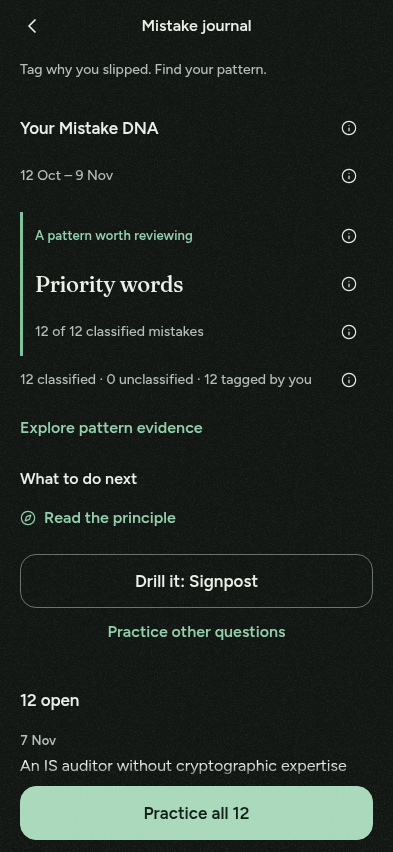
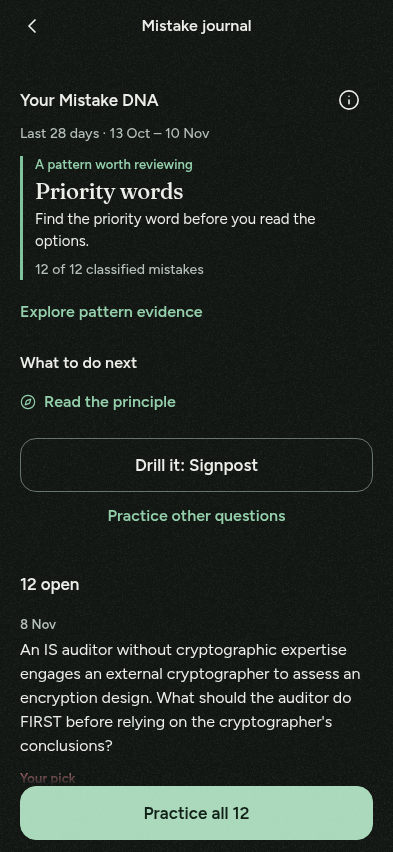
Consolidate Mistake DNA guidance into one help sheet

diff --git a/mobile/src/components/mistakeDNA.tsx b/mobile/src/components/mistakeDNA.tsx
@@ -1,32 +1,37 @@
 import { useState } from 'react';
 import { View } from 'react-native';
 import { DNA_COPY, type MistakeDNA } from '../engine/mistakeDNA';
+import { PATTERN_COPY, PATTERN_ORDER } from '../engine/slipCoach';
 import { shortDate } from '../lib/format';
 import { space } from '../theme/tokens';
 import { useTheme } from '../theme/useTheme';
-import { Info, ICON_STROKE } from './icons';
-import { Button, IconButton, ICON_SIZE, T } from './ui';
+import { FeatureInfo } from './featureInfo';
+import { Button, T } from './ui';
 
-const sourceLabel = (p: MistakeDNA['patterns'][number]) => p.observed ? 'Answer evidence' : p.pattern === 'priority' ? 'Your tags and question wording' : 'Your tags';
+const sourceLabel = (p: MistakeDNA['patterns'][number]) => p.observed ? 'Answer evidence' : p.pattern === 'priority' ? 'Tags + wording' : 'Your tags';
 
-/** Explanations stay beside their label, available to touch and screen readers. */
-function InfoLabel({ label, help, v = 'label', heading = false, color }: {
-  label: string;
-  help: string;
-  v?: 'headline' | 'title' | 'label' | 'meta' | 'caption';
-  heading?: boolean;
-  color?: string;
-}) {
-  const { c } = useTheme();
-  const [open, setOpen] = useState(false);
+/** One shared explanation, using the app's accessible, scrollable help sheet. */
+function DNAHelp({ dna }: { dna: MistakeDNA }) {
+  const sections = [
+    ['Learning clues', 'Mistake DNA describes your retained mistakes, not a diagnosis of how you think or a measure of mastery. Tag why you slipped in the journal; “What do these mean?” gives examples.'],
+    ['Your evidence', `Classified means a valid learner tag or usable answer evidence is available. Unclassified means neither is available. Your tags are reflections; answer evidence describes your recorded pick or confidence. Tags + wording combines a Misread tag with a priority word in the question. ${dna.tagged} mistakes in this window have your tags.`],
+    ['The observation window', 'The last 28 days use each question’s latest saved miss. Repeated misses replace the earlier observation; saved tags can persist. Fixed mistakes remain in their original miss window. Untagged misses count only when usable answer evidence is available.'],
+    ['Counts and bars', 'Each count is distinct mistakes showing that pattern out of all classified mistakes in these 28 days. A bar shows that same share. A mistake may show several patterns, so shares do not add up to 100%. These are not shares of all practice answers.'],
+    ['When a pattern appears', 'A leading pattern needs at least 5 classified mistakes, including 3 showing that pattern. Equal counts share the lead. Below that sample, keep reflecting; the app does not guess a leading pattern.'],
+    ['Comparing recent practice', 'The trend compares the same pattern’s share in the recent 14 days with the previous 14 days. Each window needs at least 5 classified mistakes. Changes within 10 percentage points are called similar. Question mix and which mistakes you tag can change the shares; a smaller share does not prove improved mastery.'],
+  ];
   return (
-    <View>
-      <View style={{ flexDirection: 'row', alignItems: 'center', gap: space.xs }}>
-        <T v={v} color={color} accessibilityRole={heading ? 'header' : undefined} style={{ flex: 1 }}>{label}</T>
-        <IconButton label={`About ${label}`} expanded={open} onPress={() => setOpen(!open)} icon={(col) => <Info size={ICON_SIZE.inline} color={col} strokeWidth={ICON_STROKE} />} />
-      </View>
-      {open && <View accessibilityLiveRegion="polite"><T v="small" color={c.ink2} style={{ marginBottom: space.sm }}>{help}</T></View>}
-    </View>
+    <>
+      {sections.map(([title, body]) => <View key={title} style={{ marginBottom: space.lg }}>
+        <T v="label" accessibilityRole="header">{title}</T>
+        <T v="small" style={{ marginTop: space.xs }}>{body}</T>
+      </View>)}
+      <T v="label" accessibilityRole="header">Pattern meanings</T>
+      {PATTERN_ORDER.map((pattern) => <View key={pattern} style={{ marginTop: space.md }}>
+        <T v="label">{DNA_COPY[pattern].label}</T>
+        <T v="small" style={{ marginTop: space.xs }}>{DNA_COPY[pattern].explanation}</T>
+      </View>)}
+    </>
   );
 }
 
@@ -37,33 +42,35 @@ export function MistakeDNASummary({ dna }: { dna: MistakeDNA }) {
   const count = (w: MistakeDNA['recent']) => w.patterns.find((p) => p.pattern === top?.pattern)?.count ?? 0;
   return (
     <View style={{ marginTop: space.xl }}>
-      <InfoLabel label="Your Mistake DNA" v="headline" heading help="Understand patterns in your recent mistakes and find a useful next activity. These are learning clues, not a diagnosis of how you think." />
-      <InfoLabel label={`${shortDate(dna.from)} – ${shortDate(dna.to)}`} v="meta" help="The last 28 days, using each question’s latest saved miss. Repeated misses replace the earlier observation. Fixed mistakes remain in their original miss window." />
-      <View style={{ marginTop: space.md, borderLeftWidth: 3, borderLeftColor: c.accent, paddingLeft: space.md }}>
-        <InfoLabel label={top ? (dna.tied ? 'One of your most common patterns' : 'A pattern worth reviewing') : 'Not enough evidence yet'} v="caption" color={c.accentText} help="A leading pattern needs at least 5 classified mistakes, including 3 showing the same pattern. Equal counts share the lead." />
-        <InfoLabel label={top ? DNA_COPY[top.pattern].label : 'Keep reflecting'} v="title" heading help={top ? DNA_COPY[top.pattern].explanation : 'As you review your mistakes, tag what may have happened. Untagged misses count only when a recorded pick or confidence provides usable evidence.'} />
-        {top && <InfoLabel label={`${top.count} of ${dna.classified} classified mistakes`} v="meta" help="The number of distinct classified mistakes showing this pattern, out of all classified mistakes in these 28 days. This is not a share of all practice answers." />}
+      <View style={{ flexDirection: 'row', alignItems: 'center', gap: space.xs }}>
+        <T v="headline" accessibilityRole="header" style={{ flex: 1 }}>Your Mistake DNA</T>
+        <FeatureInfo title="How Mistake DNA works" label="How Mistake DNA works"><DNAHelp dna={dna} /></FeatureInfo>
       </View>
-      <InfoLabel label={`${dna.classified} classified · ${dna.unclassified} unclassified · ${dna.tagged} tagged by you`} v="meta" help="Classified means a valid learner tag or usable answer evidence is available. Unclassified means neither is available. Tagged counts your reflections; a mistake may also have answer evidence." />
-      <Button kind="ghost" label={expanded ? 'Hide pattern evidence' : 'Explore pattern evidence'} expanded={expanded} onPress={() => setExpanded(!expanded)} style={{ alignSelf: 'flex-start', marginLeft: -space.sm }} />
+      <T v="meta">{`Last 28 days · ${shortDate(dna.from)} – ${shortDate(dna.to)}`}</T>
+      <View style={{ marginTop: space.md, borderLeftWidth: 3, borderLeftColor: c.accent, paddingLeft: space.md }}>
+        <T v="caption" color={c.accentText}>{top ? (dna.tied ? 'One of your most common patterns' : 'A pattern worth reviewing') : 'Not enough evidence yet'}</T>
+        <T v="title" accessibilityRole="header" style={{ marginTop: space.xs }}>{top ? DNA_COPY[top.pattern].label : 'Keep reflecting'}</T>
+        <T v="small" style={{ marginTop: space.xs }}>{top ? (top.pattern === 'knowledge' ? 'Read a related note, then try fresh practice.' : top.pattern === 'runner-up' ? 'Say why the best answer wins before you tap.' : PATTERN_COPY[top.pattern].coach) : 'Tag a few mistakes to help reveal a pattern.'}</T>
+        {top && <T v="meta" style={{ marginTop: space.sm }}>{`${top.count} of ${dna.classified} classified mistakes`}</T>}
+      </View>
+      <Button kind="ghost" label={expanded ? 'Hide pattern evidence' : 'Explore pattern evidence'} expanded={expanded} onPress={() => setExpanded(!expanded)} style={{ alignSelf: 'flex-start', marginLeft: -space.sm, marginTop: space.sm }} />
       {expanded && (
         <View>
-          <InfoLabel label="Thinking-pattern breakdown" heading help="Tags are your reflections. Answer evidence describes your recorded pick or confidence, not your thought process. Each bar shows the share of classified mistakes in these 28 days. A mistake can show several patterns, so shares do not add up to 100%." />
+          <T v="label" accessibilityRole="header">Thinking-pattern breakdown</T>
+          <T v="meta" style={{ marginTop: space.xs }}>{`${dna.classified} classified · ${dna.unclassified} unclassified`}</T>
           {dna.patterns.slice(0, 5).map((p) => (
-            <View key={p.pattern} style={{ marginTop: space.sm }}>
-              <InfoLabel label={DNA_COPY[p.pattern].label} help={`${DNA_COPY[p.pattern].explanation} Source: ${sourceLabel(p)}. ${p.count} of ${dna.classified} distinct classified mistakes in these 28 days (${p.percent}%).`} />
-              <T v="meta" accessibilityLabel={`${p.count} of ${dna.classified} classified mistakes, ${p.percent} percent. ${sourceLabel(p)}.`}>{`${p.count} of ${dna.classified} · ${p.percent}% · ${sourceLabel(p)}`}</T>
+            <View key={p.pattern} style={{ marginTop: space.md }}>
+              <T v="label">{DNA_COPY[p.pattern].label}</T>
+              <T v="meta" accessibilityLabel={`${p.count} of ${dna.classified} classified mistakes, ${p.percent} percent. ${sourceLabel(p)}.`}>{`${p.count} of ${dna.classified} · ${sourceLabel(p)}`}</T>
               <View accessibilityElementsHidden importantForAccessibility="no-hide-descendants" style={{ height: 6, backgroundColor: c.line, marginTop: space.xs, borderRadius: 3 }}>
                 <View style={{ width: `${p.percent}%`, height: 6, backgroundColor: c.accent, borderRadius: 3 }} />
               </View>
             </View>
           ))}
           {dna.patterns.length === 0 && <T v="small">No classified mistakes yet.</T>}
-          <View style={{ marginTop: space.lg }}>
-            <InfoLabel label="Progress over time" heading help="Compares the same pattern’s share of classified mistakes in the recent 14 days with the previous 14 days. Each window needs at least 5 classified mistakes. Changes within 10 percentage points are called similar. This is not a measure of mastery: question mix and which mistakes you tag can change these shares." />
-          </View>
-          <T v="small">{dna.trend === 'insufficient' ? 'More evidence needed' : `${top ? DNA_COPY[top.pattern].label : 'Pattern'}: ${dna.trend === 'less' ? 'less frequent recently' : dna.trend === 'more' ? 'more frequent recently' : 'similar recently'}`}</T>
-          {top && <InfoLabel label={`Recent: ${count(dna.recent)} of ${dna.recent.classified} · Previous: ${count(dna.previous)} of ${dna.previous.classified}`} v="meta" help={`${DNA_COPY[top.pattern].label}: ${count(dna.recent)} of ${dna.recent.classified} classified mistakes in the recent 14 days; ${count(dna.previous)} of ${dna.previous.classified} in the preceding 14 days. These counts describe retained mistakes, not all practice answers.`} />}
+          <T v="label" accessibilityRole="header" style={{ marginTop: space.lg }}>Progress over time</T>
+          <T v="small" style={{ marginTop: space.xs }}>{dna.trend === 'insufficient' ? 'More evidence needed' : `${top ? DNA_COPY[top.pattern].label : 'Pattern'}: ${dna.trend === 'less' ? 'less frequent recently' : dna.trend === 'more' ? 'more frequent recently' : 'similar recently'}`}</T>
+          {top && <T v="meta" style={{ marginTop: space.xs }}>{`Recent 14 days: ${count(dna.recent)} of ${dna.recent.classified} · Previous 14 days: ${count(dna.previous)} of ${dna.previous.classified}`}</T>}
         </View>
       )}
     </View>

diff --git a/mobile/src/__tests__/mistake-dna-screen.test.tsx b/mobile/src/__tests__/mistake-dna-screen.test.tsx
@@ -1,7 +1,9 @@
 /** Mistake DNA journal integration: accessible evidence, retained notes and independent practice. */
 import { act, create, type ReactTestInstance, type ReactTestRenderer } from 'react-test-renderer';
 import { router } from 'expo-router';
-import { Dimensions } from 'react-native';
+import { Dimensions, Modal } from 'react-native';
+import { GAMES } from '../engine/games/registry';
+import { FeatureInfo } from '../components/featureInfo';
 import { useSession } from '../store/session';
 import { DAY_MS } from '../engine/srs';
 import Mistakes from '../app/mistakes';
@@ -76,12 +78,12 @@ it.each(['light', 'dark'] as const)('shows accessible evidence and real remediat
   act(() => { useSettings.setState({ theme }); });
   expect(text()).toContain('Your Mistake DNA');
   expect(text()).toContain('Role confusion');
-  expect(labels()).toContain('Drill it: Canopy Call');
+  expect(labels()).toContain(`Drill it: ${GAMES.canopy.name}`);
   press('Explore pattern evidence');
   expect(text()).toContain('Thinking-pattern breakdown');
   expect(text()).toContain('6 of 6');
   expect(text()).toContain('Your tags');
-  press('Drill it: Canopy Call');
+  press(`Drill it: ${GAMES.canopy.name}`);
   expect(router.push).toHaveBeenCalledWith('/game/canopy');
   act(() => { useSettings.setState({ theme: 'light' }); });
 });
@@ -110,20 +112,25 @@ it('handles certification reset and old-only evidence honestly', () => {
   expect(text()).toContain('Not enough evidence yet');
   expect(labels().some((l) => /^Drill it/.test(l))).toBe(false);
   act(() => { useProgress.getState().resetCert('cisa'); });
+  press('Explore pattern evidence');
   expect(text()).toContain('0 classified');
   expect(text()).toContain('Nothing open right now');
 });
-it('keeps explanations behind labelled information buttons', () => {
+it('uses one help entry for the whole journal, with a visible coaching cue', () => {
   seed(50);
-  expect(text()).not.toContain('These are learning clues, not a diagnosis');
-  press('About Your Mistake DNA');
-  expect(text()).toContain('These are learning clues, not a diagnosis');
-  press('About Your Mistake DNA');
-  expect(text()).not.toContain('These are learning clues, not a diagnosis');
-  press('Explore pattern evidence');
+  expect(r!.root.findAllByType(FeatureInfo)).toHaveLength(1);
   expect(text()).not.toContain('shares do not add up to 100%');
-  press('About Thinking-pattern breakdown');
+  expect(text()).toContain('Ask who you are in the question');
+  expect(text()).not.toContain('tagged by you');
+  press('How Mistake DNA works');
   expect(text()).toContain('shares do not add up to 100%');
-  press('About Progress over time');
   expect(text()).toContain('Each window needs at least 5 classified mistakes');
+  press('Close, How Mistake DNA works');
+  expect(text()).not.toContain('shares do not add up to 100%');
+  press('How Mistake DNA works');
+  act(() => { r!.root.findAllByType(Modal).find((m) => m.props.visible)?.props.onRequestClose(); });
+  expect(text()).not.toContain('shares do not add up to 100%');
+  press('Explore pattern evidence');
+  expect(r!.root.findAllByType(FeatureInfo)).toHaveLength(1);
+  expect(text()).toContain('6 classified');
 });

diff --git a/mobile/src/app/mistakes.tsx b/mobile/src/app/mistakes.tsx
@@ -7,7 +7,6 @@
  * A virtualised list keeps a large journal usable. Even an empty or fully
  * corrected journal retains its honest evidence summary and next actions.
  */
-import { FeatureInfo } from '../components/featureInfo';
 import { router } from 'expo-router';
 import { backOr } from '../lib/actions';
 import { moveFocus, sayLater } from '../lib/a11y';
@@ -282,7 +281,7 @@ export default function Mistakes() {
 
   const header = (
     <View>
-      <PushedHeader right={<FeatureInfo title="Mistake journal"><T v="body">Tag why you slipped to find recurring patterns. Use “What do these mean?” beside the tags for examples.</T></FeatureInfo>} title="Mistake journal" onBack={() => backOr('/you')} />
+      <PushedHeader title="Mistake journal" onBack={() => backOr('/you')} />
 
       <MistakeDNASummary dna={dna} />
       {pattern.ready && (

diff --git a/docs/mobile/MISTAKE_DNA.md b/docs/mobile/MISTAKE_DNA.md
@@ -1,12 +1,12 @@
 # Mistake DNA
 
-Review scope: Mistake Journal only, independently based on main `5382a2ee95fa82404e9b5ee6186d030773cbefe0`. No Concept Lab dependency, Learn changes, new tab, stored field, dependency, entitlement change or release configuration change.
+Review scope: Mistake Journal only. Initially based independently on main `5382a2ee95fa82404e9b5ee6186d030773cbefe0`, then refreshed onto `5e3fad10c1777e3453dc9f9604ca46fcc46cf687` after the Concept Lab and shared UI updates merged. No Concept Lab dependency, Learn changes, new tab, stored field, dependency, entitlement change or release configuration change.
 
 ## What it adds
 
 Slip Coach still provides the existing tag-based all-history pattern for other consumers. The journal now adds a recent evidence summary, provenance-labelled breakdown, honest classified/unclassified coverage, two-window comparison, related notes and a fresh-practice path. Its learner-facing copy describes observations and possible reflection points rather than diagnosing a thinking style.
 
-Explanatory captions are collapsed by default behind labelled “i” controls. Counts, source labels and the trend’s subject stay visible; sample rules, methodology and educational explanations remain available on demand with expanded/collapsed accessibility state.
+One labelled “i” control beside “Your Mistake DNA” opens the existing scrollable FeatureInfo sheet. Dates, a short practical coaching cue, counts, evidence sources and the trend’s subject stay visible. Coverage totals live in expanded evidence. The shared help consolidates sample rules, methodology, retained-miss handling and pattern definitions, with Close/Android Back/escape support and focus restoration. The journal-header help is consolidated here to avoid a second icon.
 
 ## Architecture and calculations
 
@@ -19,7 +19,7 @@ Explanatory captions are collapsed by default behind labelled “i” controls. 
 - The denominator is **distinct classified mistakes in that window**, never attempts, pattern occurrences, all questions or all incorrect answers. Each pattern’s numerator is the number of those mistakes showing it, counted once. Percentages round to the nearest integer. A question can contribute to multiple different patterns, so percentages need not sum to 100; the UI says this explicitly.
 - A leading pattern requires at least **5 classified mistakes** and **3 examples of that pattern**. Counts rank descending; existing `PATTERN_ORDER` breaks ties. Ties are disclosed as “One of your most common patterns.” Details show at most five rows, even below the leading-pattern threshold, without claiming a recurring diagnosis.
 - Trend compares the same leading pattern’s share in `[now - 14 days, now]` with `[now - 28 days, now - 14 days)`. Each needs 5 classified distinct questions. Changes **within 10 percentage points inclusive** are “similar”; larger changes are “less” or “more.” Integer cross-products avoid floating-point boundary differences. Both counts/denominators are visible. The copy explicitly warns that question mix and tagging coverage change shares and that this is not mastery or overall error-rate improvement.
-- Existing `PATTERN_COPY` maps to the actual registry: final-two → Snare Spotter, priority → Signpost, confidence → Forecast, role → Canopy Call. Journal links still require both `canPlay` and `useAvailableGames`. Principle and note links use existing selected-certification loaders. Knowledge gaps get a related study note where one exists, including fixed mistakes.
+- Existing `PATTERN_COPY` maps to the actual registry: final-two → Snare Spotter, priority → Signpost, confidence → Forecast, role → Role Check. Journal links still require both `canPlay` and `useAvailableGames`. Principle and note links use existing selected-certification loaders. Knowledge gaps get a related study note where one exists, including fixed mistakes.
 - “Practice other questions” feeds the existing practice factory ids outside the entire saved mistake history, so immediate repeats cannot be mistaken for reassessment. When none exist, the learner can choose an existing Practice activity. Existing journal review controls remain available separately.
 
 No readiness, spaced repetition, planner, Smart Mix, grading, backup, sync, authentication or access rules change. The compiled `assets/kaisip-cloud.js` is regenerated because its existing dependency graph includes the shared Slip Coach/tip helpers; it introduces no DNA data transmission.

diff --git a/design-notes/mistake-dna/README.md b/design-notes/mistake-dna/README.md
@@ -1,5 +1,7 @@
 # Mistake DNA review evidence
 
+Current design: one help icon beside “Your Mistake DNA,” opening a shared scrollable help sheet. A coaching cue and exact evidence remain visible; coverage is in expanded evidence.
+
 Synthetic QA data only. Screenshots are browser renderings at 393 × 852; enlarged-text views simulate larger text and do not certify native Android accessibility.
 
 - `light-journal.png`, `dark-journal.png`: integrated journal summary and existing remediation.
@@ -82,10 +84,18 @@ The owner asked for screenshots and an emulator update. This task runs in a clou
 
 Use branch `codex/kaisip-mistake-dna` / PR #240 in an isolated local checkout. No native dependencies or configuration changed, so the existing compatible KaiSip development client can receive the branch with `npx expo start --dev-client --android` from `mobile/`, following `docs/mobile/RUN_ON_ANDROID_EMULATOR.md`. Coordinate with the Lab branch before choosing which feature(s) to show. Keep the existing emulator app data: do not uninstall, clear storage, reset progress, or import these synthetic fixtures into a tester profile. The cloud task has **not** updated the emulator. This is a local development handoff, not production release authorization.
 
-## Compact caption refinement
+## Earlier compact caption refinement (superseded)
 
 At the owner’s request, all DNA explanatory copy now opens from adjacent information icons rather than filling the screen. Essential counts and evidence sources stay visible. The controls have 48-point targets, distinct spoken labels and expanded state; help follows the label in reading order. Trend text still names the specific pattern. Independent UX re-review of light/dark, large-text, collapsed and help-open views found no remaining blocking issues. The refreshed synthetic screenshot run had zero page errors and no horizontal overflow. A regression test verifies help is hidden initially and opens/closes on demand.
 
 Android export and cloud-OFF/size guards passed again (11,851,499-byte bundle). This is a UI-only refinement; no analytics, progress or cloud behavior changed.
 
 Compact-caption verification: `npm run check` passed with 357 suites / 7,279 tests, 2 existing skips; the focused disclosure tests also passed (5/5).
+
+## One-icon reviewer recommendation implemented
+
+Both UI and content reviewers recommended one information control, not one per label. The journal now uses the existing `FeatureInfo` sheet for all methodology and definitions, with a visible coaching cue, explicit 28-day window and exact supporting count. Expanded evidence keeps source labels, classified/unclassified coverage and named 14-day trends. Redundant tagged totals and percentage text are removed from the default view; bar shares and spoken percentages retain explicit denominators.
+
+Current main `5e3fad1` was merged into this feature branch. The generated cloud bundle was regenerated and the shared role-drill test retains main’s Role Check display name while expecting the new DNA heading. The Concept Lab and release configuration receive no feature-PR edits. UI/content re-reviews are clear; the help-sheet screenshot now waits for the transition to finish and uses Asia/Manila browser time. Native emulator access remains unavailable in this cloud workspace.
+
+Latest-main one-icon verification: `npm run check` passed (361 suites; 7,167 tests passed, 2 existing skips). Repository health, Android export, cloud-OFF guard, release-channel/shared-source guards and size budgets passed. Current Android bundle: 11,357,548 bytes (11.36 MB of 14 MB); the changed baseline includes main’s UI cleanup. Focused help/journal tests passed; screenshots have zero page errors. No Learn, Lab, app.json or EAS differences relative to current main.
